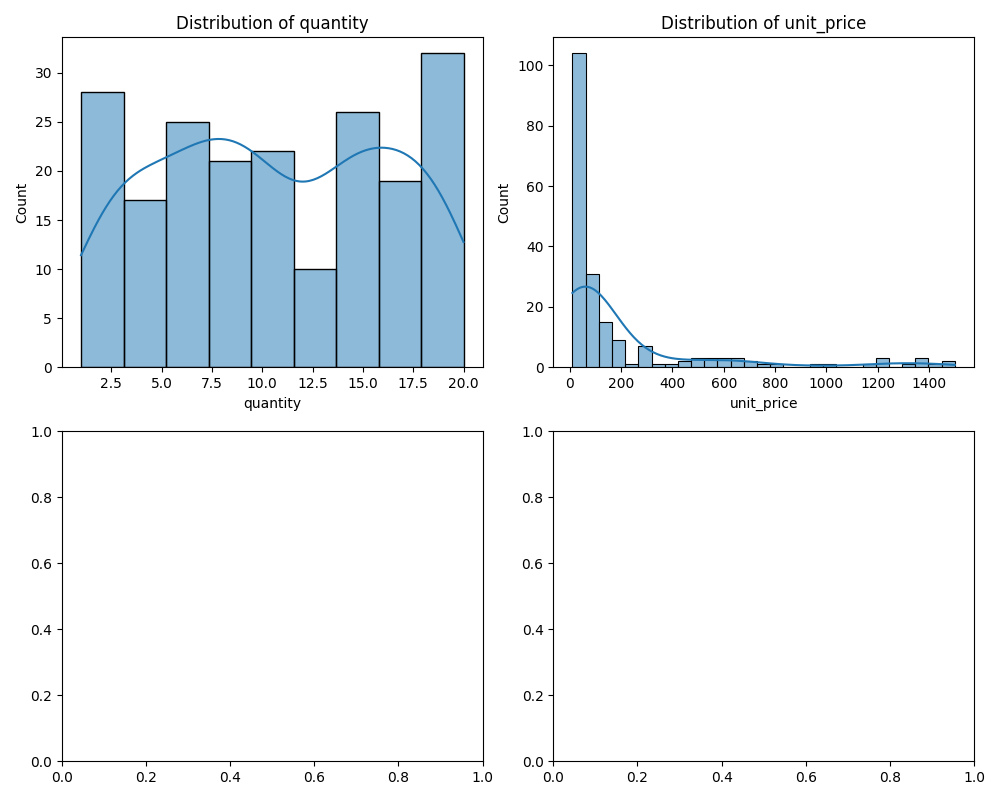
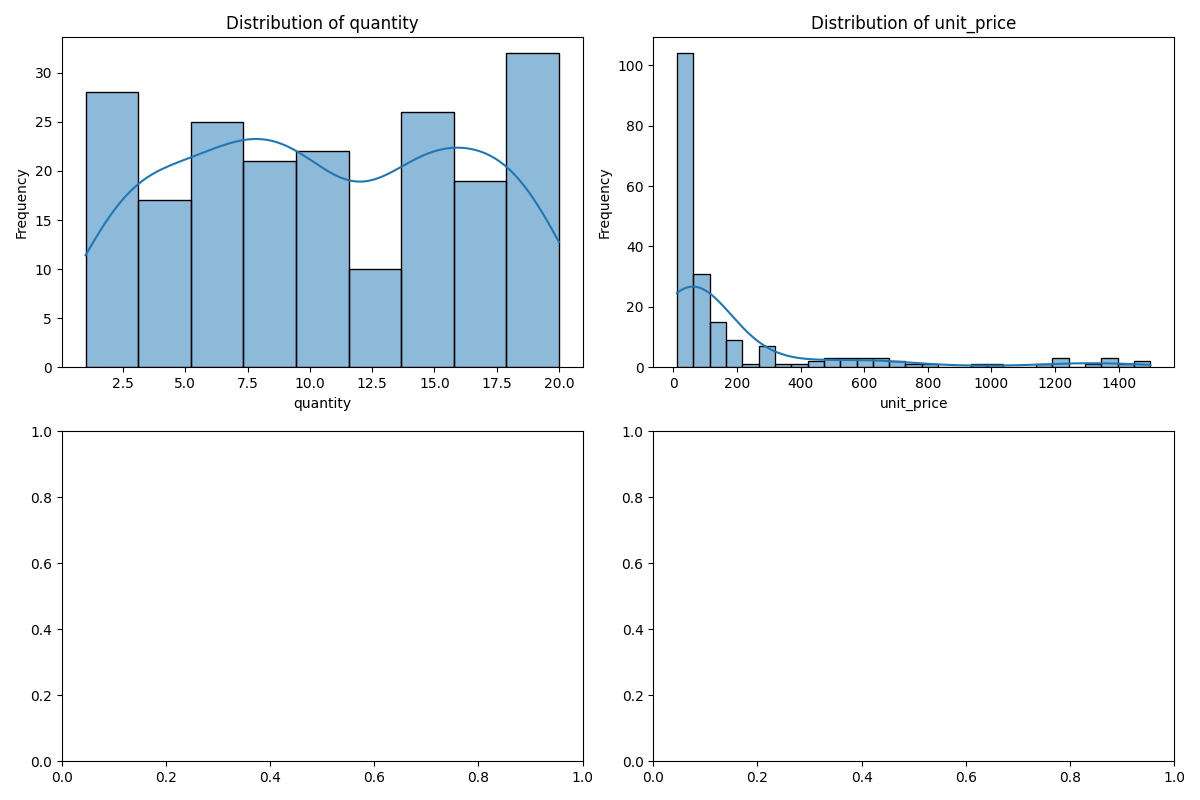
Fixed compute_summary for Autograder

diff --git a/drill_eda.py b/drill_eda.py
@@ -1,128 +1,86 @@
-"""Core Skills Drill — Descriptive Analytics
-
-Compute summary statistics, plot distributions, and create a correlation
-heatmap for the sample sales dataset.
-
-Usage:
-    python drill_eda.py
-"""
 import os
 import pandas as pd
 import numpy as np
 import matplotlib.pyplot as plt
 import seaborn as sns
 
-
+# ----------------------------
+# Task 1: Summary Statistics
+# ----------------------------
 def compute_summary(df):
-    """Compute summary statistics for all numeric columns.
-
-    Args:
-        df: pandas DataFrame with at least some numeric columns
-
-    Returns:
-        DataFrame containing count, mean, median, std, min, max
-        for each numeric column. Save the result to output/summary.csv.
-    """
-    # TODO: Compute descriptive statistics (count, mean, median, std, min, max)
-    #       for all numeric columns and save to output/summary.csv
-    
     numeric_df = df.select_dtypes(include='number')
-
-    summary = numeric_df.describe().T
-    summary['median'] = numeric_df.median()
-
-    summary = summary[['count', 'mean', 'median', 'std', 'min', 'max']]
-
-    summary.to_csv('output/summary.csv')
-
+    
+    # Create summary where statistics are rows
+    summary = pd.DataFrame(index=['count', 'mean', 'median', 'std', 'min', 'max'])
+    
+    for col in numeric_df.columns:
+        summary[col] = [
+            numeric_df[col].count(),
+            numeric_df[col].mean(),
+            numeric_df[col].median(),
+            numeric_df[col].std(),
+            numeric_df[col].min(),
+            numeric_df[col].max()
+        ]
+    
+    # Save CSV
+    summary.to_csv("output/summary.csv")
     return summary
 
-
-
-
+# ----------------------------
+# Task 2: Distribution Plots
+# ----------------------------
 def plot_distributions(df, columns, output_path):
-    """Create a 2x2 subplot figure with histograms for the specified columns.
-
-    Args:
-        df: pandas DataFrame
-        columns: list of 4 column names to plot (use numeric columns)
-        output_path: file path to save the figure (e.g., 'output/distributions.png')
-
-    Returns:
-        None — saves the figure to output_path
-    """
-    # TODO: Create a 2x2 figure with sns.histplot (KDE overlay) for each column
-    #       Add titles, labels, and tight layout before saving
-    
-    fig, axes = plt.subplots(2, 2, figsize=(10, 8))
+    # Create 2x2 subplot figure
+    fig, axes = plt.subplots(2, 2, figsize=(12, 8))
     axes = axes.flatten()
-
+    
     for i, col in enumerate(columns):
         sns.histplot(df[col], kde=True, ax=axes[i])
         axes[i].set_title(f'Distribution of {col}')
         axes[i].set_xlabel(col)
-        axes[i].set_ylabel('Count')
-
+        axes[i].set_ylabel('Frequency')
+    
     plt.tight_layout()
     plt.savefig(output_path)
     plt.close()
 
-
+# ----------------------------
+# Task 3: Correlation Heatmap
+# ----------------------------
 def plot_correlation(df, output_path):
-    """Compute Pearson correlation matrix and visualize as a heatmap.
-
-    Args:
-        df: pandas DataFrame with numeric columns
-        output_path: file path to save the figure (e.g., 'output/correlation.png')
-
-    Returns:
-        None — saves the figure to output_path
-    """
-    # TODO: Compute the correlation matrix for numeric columns and
-    #       visualize it as an annotated Seaborn heatmap
-    
     numeric_df = df.select_dtypes(include='number')
-    corr = numeric_df.corr()
-
+    corr = numeric_df.corr(method='pearson')
+    
     plt.figure(figsize=(8, 6))
-    sns.heatmap(corr, annot=True, cmap='coolwarm')
-
+    sns.heatmap(corr, annot=True, cmap='coolwarm', fmt=".2f")
     plt.title('Correlation Heatmap')
-
+    plt.tight_layout()
     plt.savefig(output_path)
     plt.close()
 
-
+# ----------------------------
+# Main function
+# ----------------------------
 def main():
-    """Load data, compute summary, and generate all plots."""
+    # Create output folder if not exists
     os.makedirs("output", exist_ok=True)
-
-    # TODO: Load the CSV from data/sample_sales.csv
-    # TODO: Call compute_summary and save the result
-    # TODO: Choose 4 numeric-friendly columns and call plot_distributions
-    # TODO: Call plot_correlation
     
-    # Create output directory if it doesn't exist
-    os.makedirs("output", exist_ok=True)
-
-    # Load the dataset
+    # Load CSV
     df = pd.read_csv("data/sample_sales.csv")
-
-    # Task 1 — Compute and save summary statistics
-    compute_summary(df)
-
-    # Task 2 — Plot distributions for 4 numeric columns
-    numeric_cols = df.select_dtypes(include='number').columns[:4]
-    plot_distributions(
-    df,
-    numeric_cols,
-    'output/distributions.png'
-)
-
-    # Task 3 — Plot correlation heatmap
-    plot_correlation(df, 'output/correlation.png')
     
+    # Task 1: Compute summary
+    compute_summary(df)
+    
+    # Task 2: Plot distributions (choose first 4 numeric columns)
+    numeric_cols = df.select_dtypes(include='number').columns[:4].tolist()
+    plot_distributions(df, numeric_cols, "output/distributions.png")
+    
+    # Task 3: Plot correlation heatmap
+    plot_correlation(df, "output/correlation.png")
 
-
+# ----------------------------
+# Run main if script is executed
+# ----------------------------
 if __name__ == "__main__":
     main()
